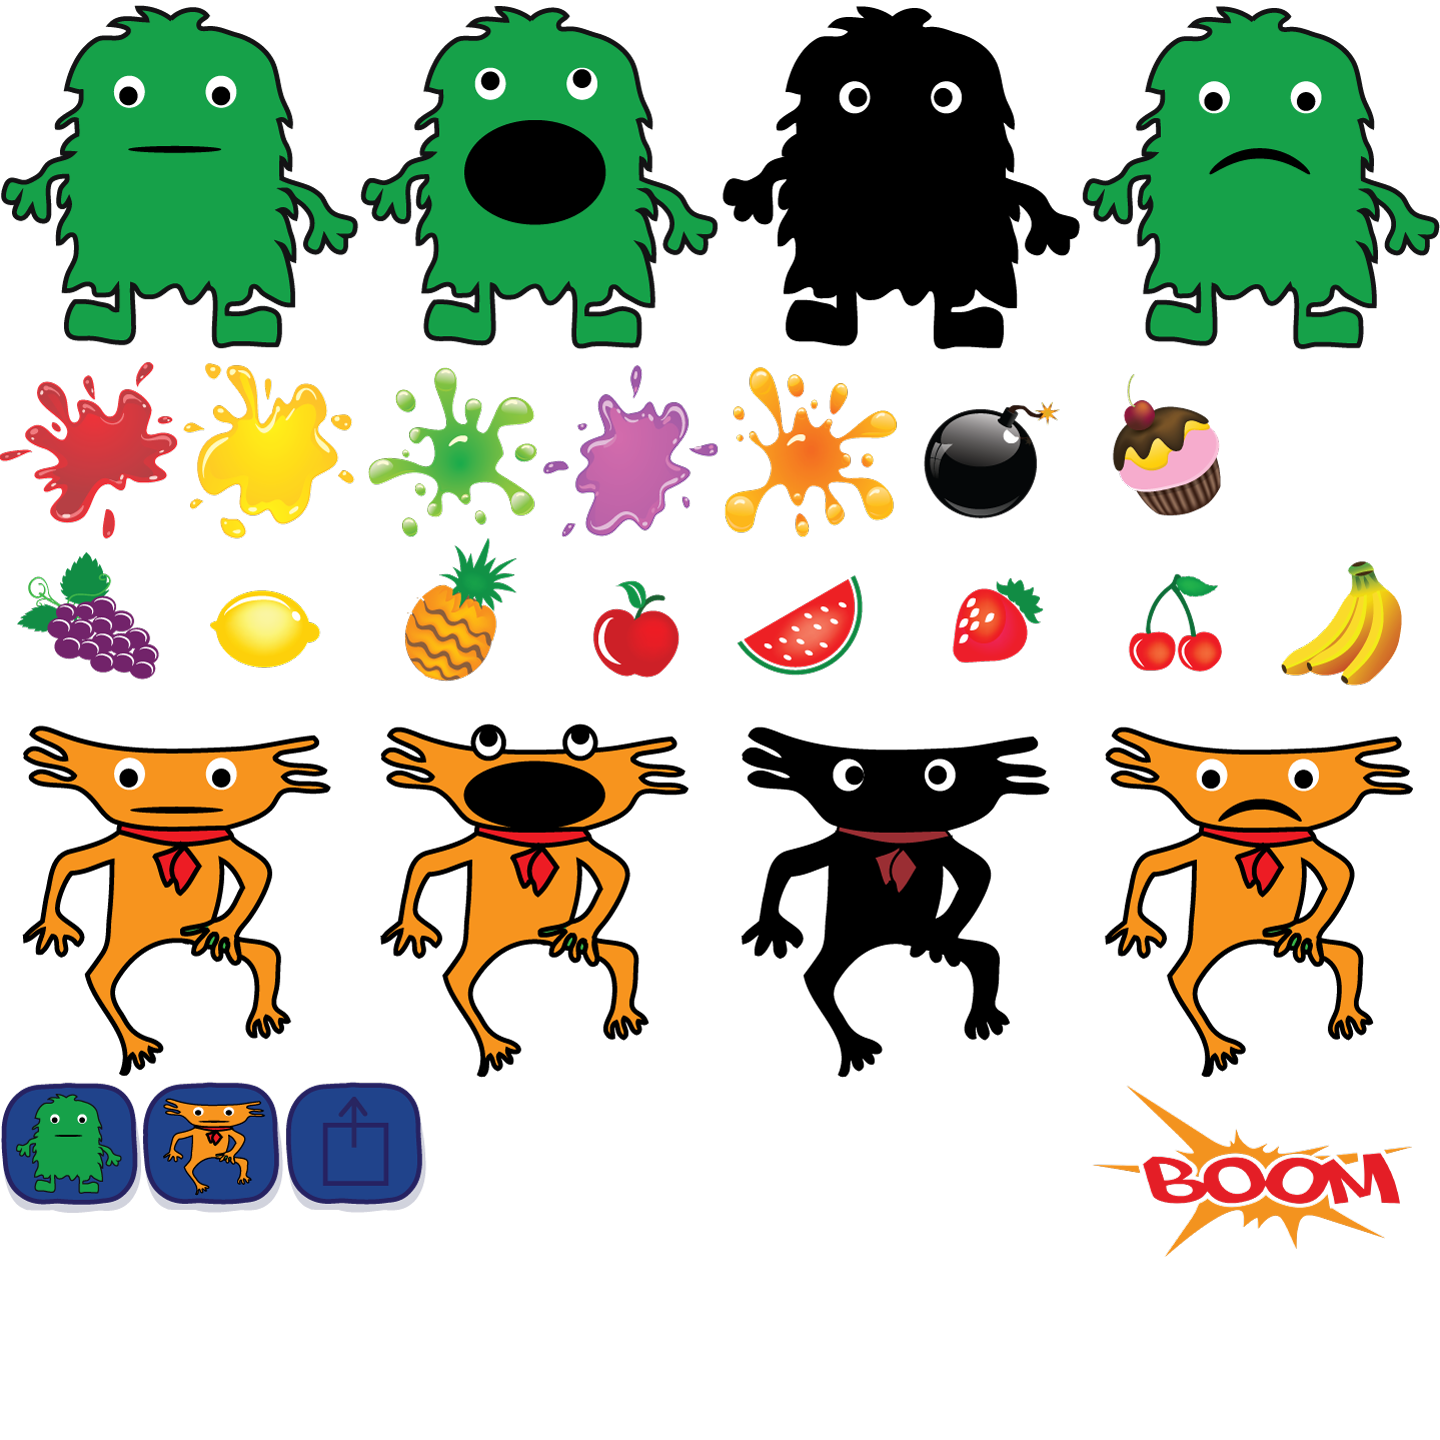
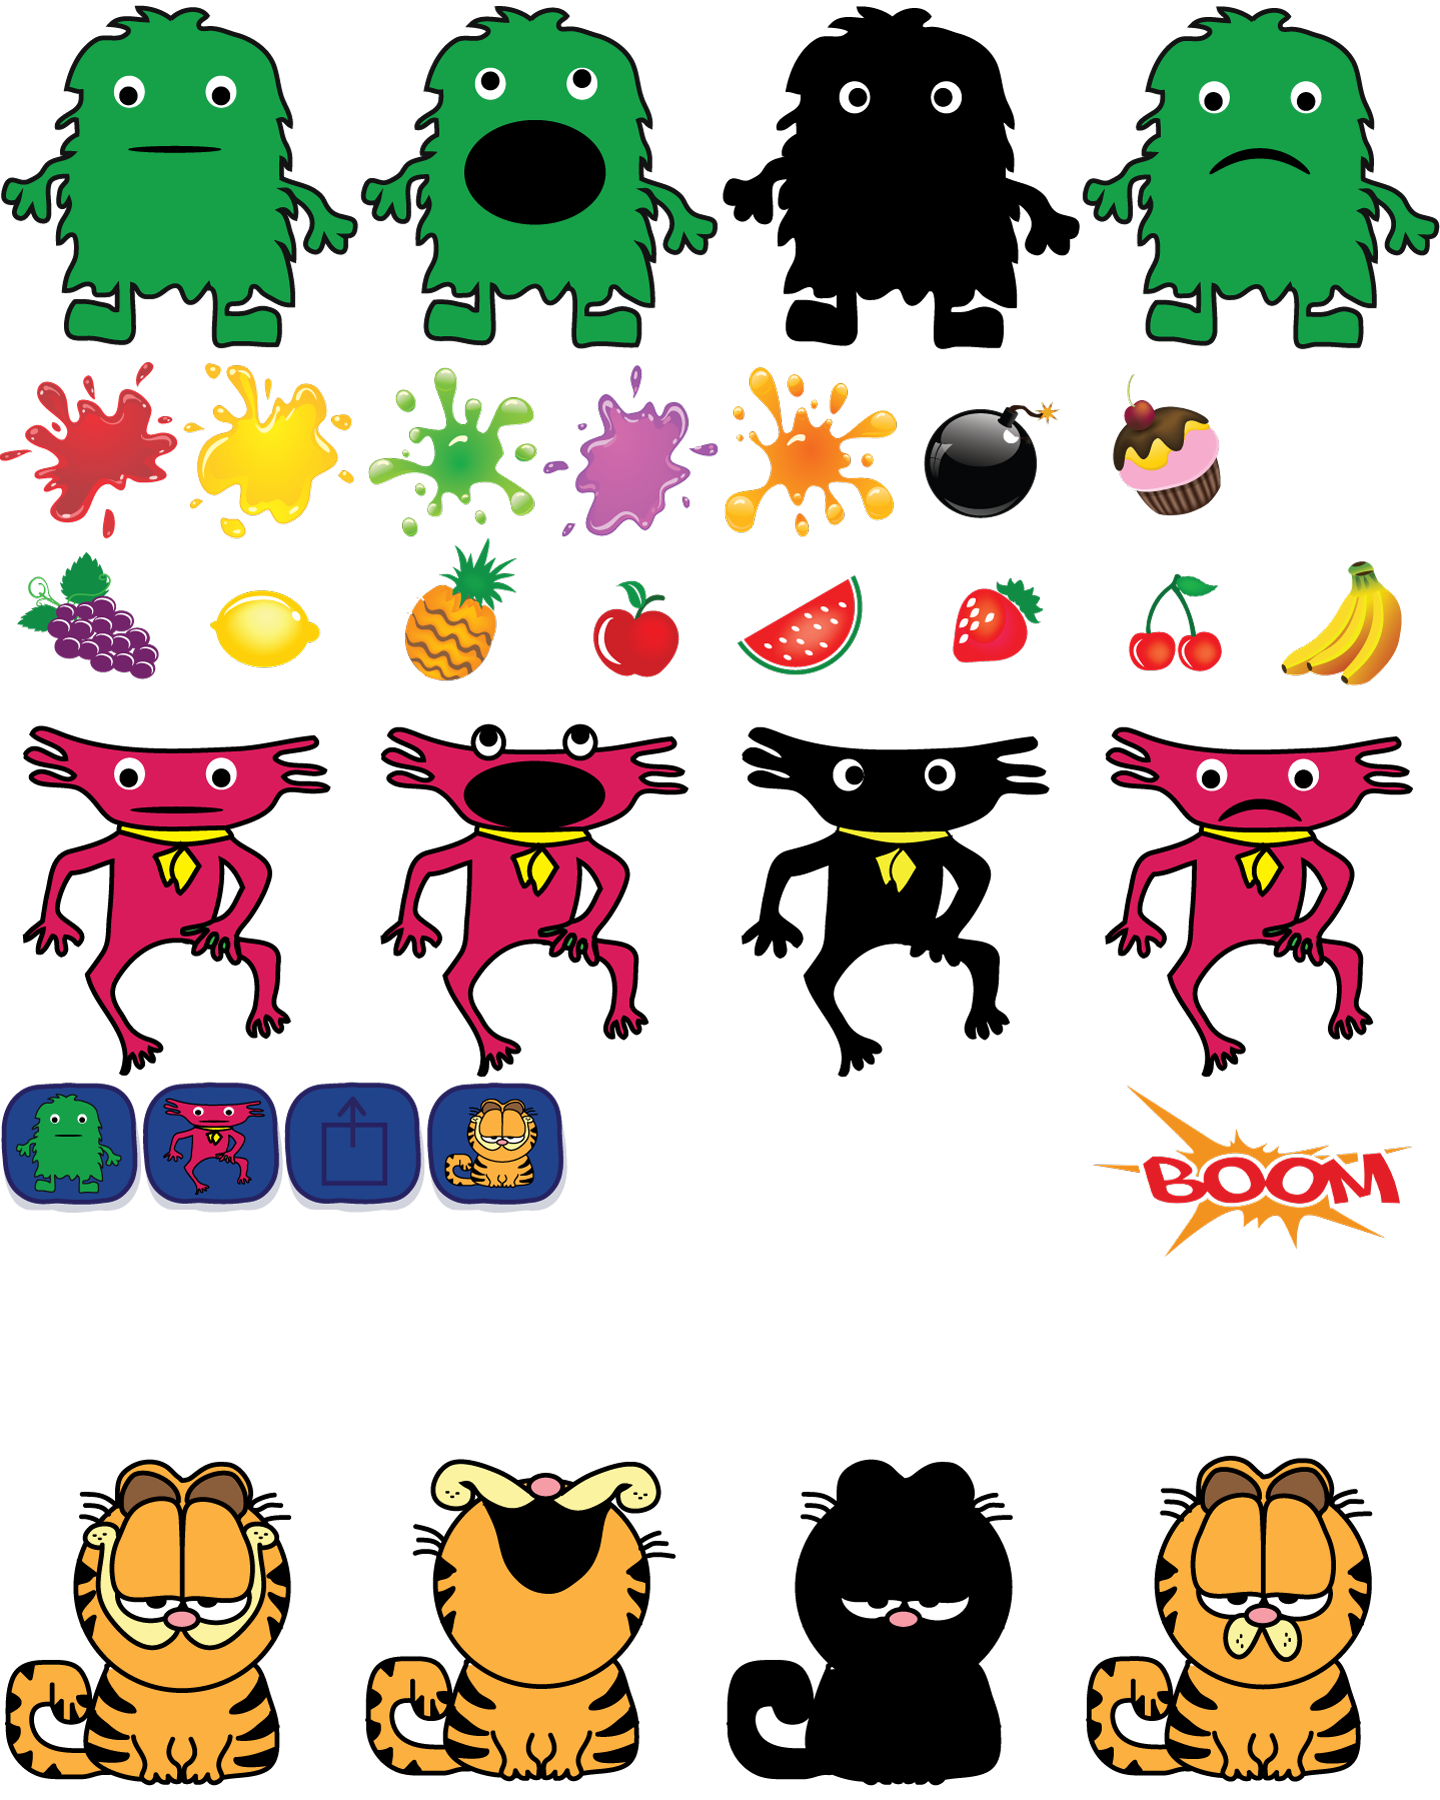
Added Garfield. Need some tweaks on its sprite position but its a good start...

diff --git a/js/src/sprite-sheets.js b/js/src/sprite-sheets.js
@@ -21,6 +21,16 @@
     tileColumns: 4,
     tileRows: 1
   }, {
+    id: "garfield",
+    img: "#miam",
+    imgUrl: "img/miam.png",
+    x: 0,
+    y: 720,
+    tileWidth: 180,
+    tileHeight: 180,
+    tileColumns: 4,
+    tileRows: 1
+  }, {
     id: "fruits",
     img: "#miam",
     imgUrl: "img/miam.png",

diff --git a/js/src/miam.js b/js/src/miam.js
@@ -113,4 +113,12 @@
     })
   });
 
+  Backbone.Garfield = Backbone.Miam.extend({
+    defaults: _.extend({}, Backbone.Miam.prototype.defaults, {
+      spriteSheet: "garfield",
+      paddingTop: 45,
+      paddingBottom: 130,
+    })
+  });
+
 }).call(this);

diff --git a/js/src/buttons.js b/js/src/buttons.js
@@ -16,6 +16,9 @@
       imgX: 70
     }, {
       name: "miam2",
+      imgX: 140
+    }, {
+      name: "garfield",
       imgX: 0
     }],
     initialize: function(attributes, options) {
